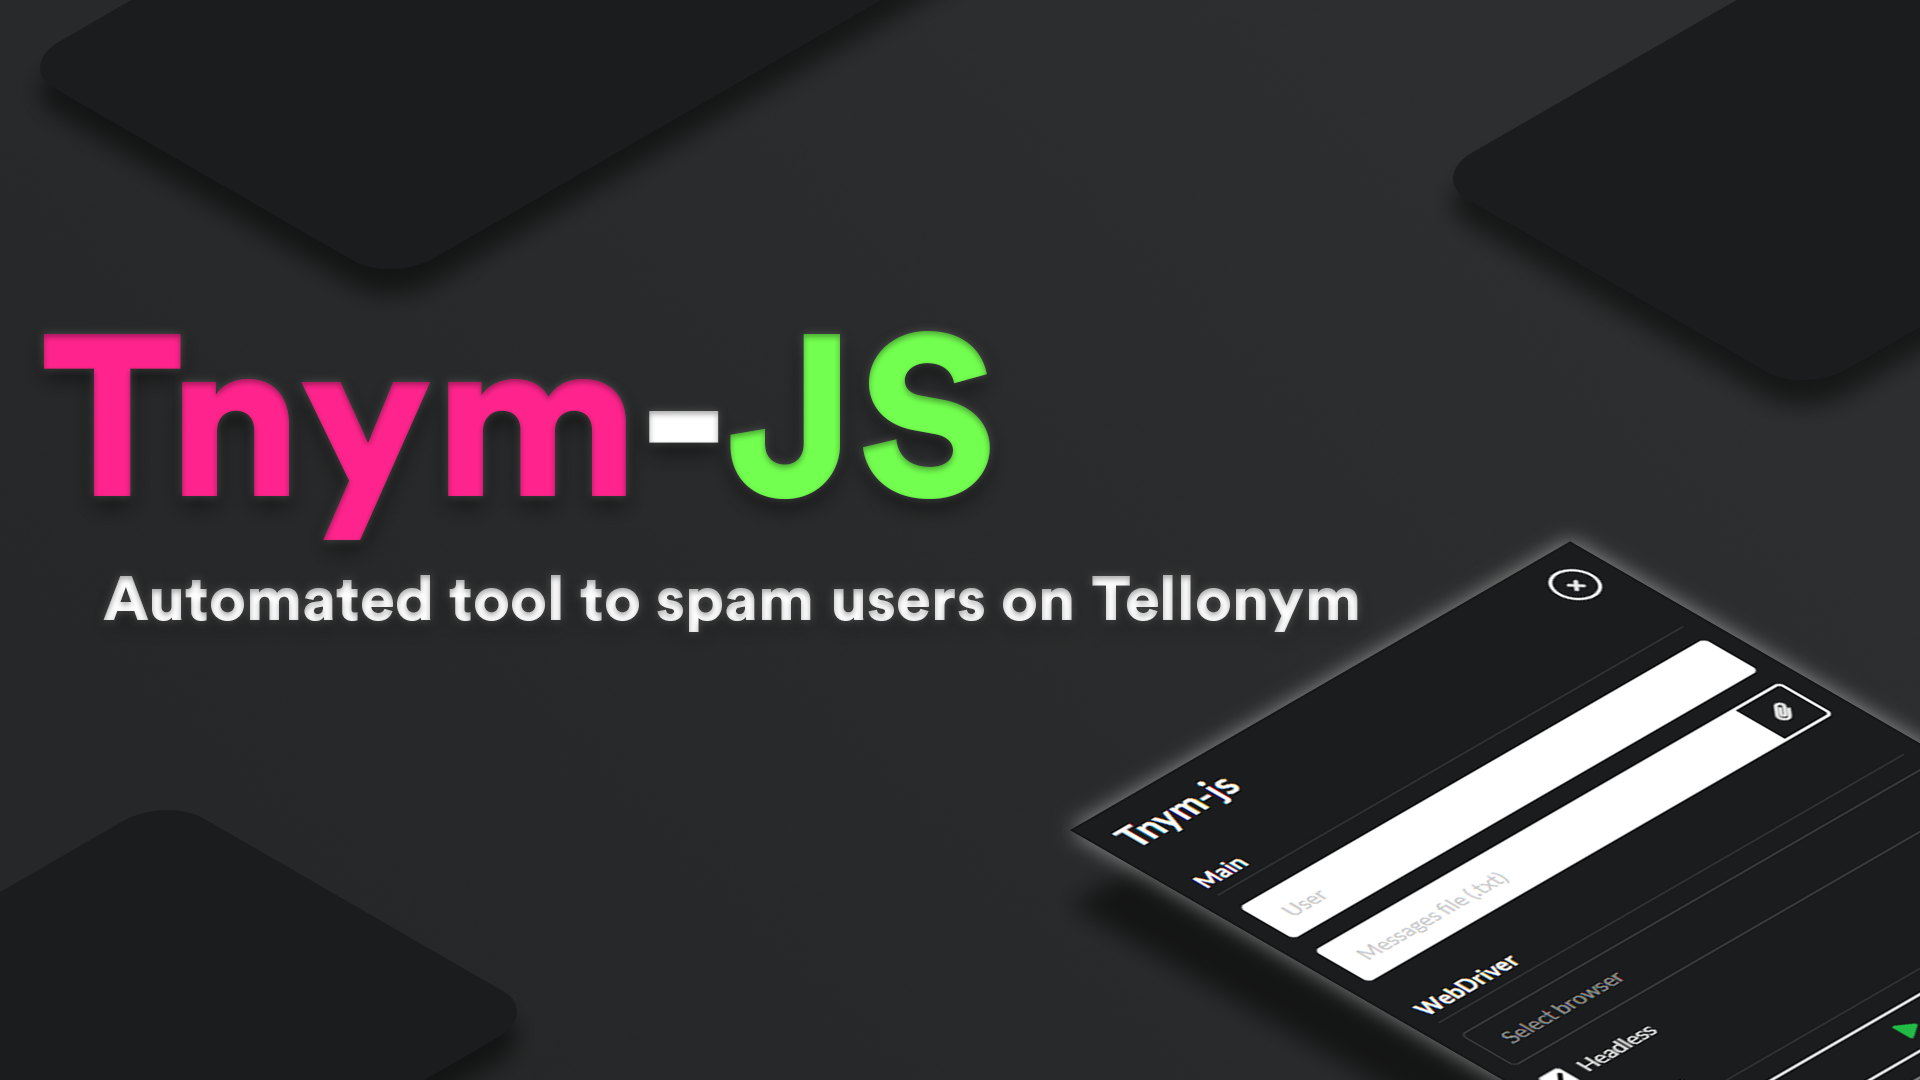
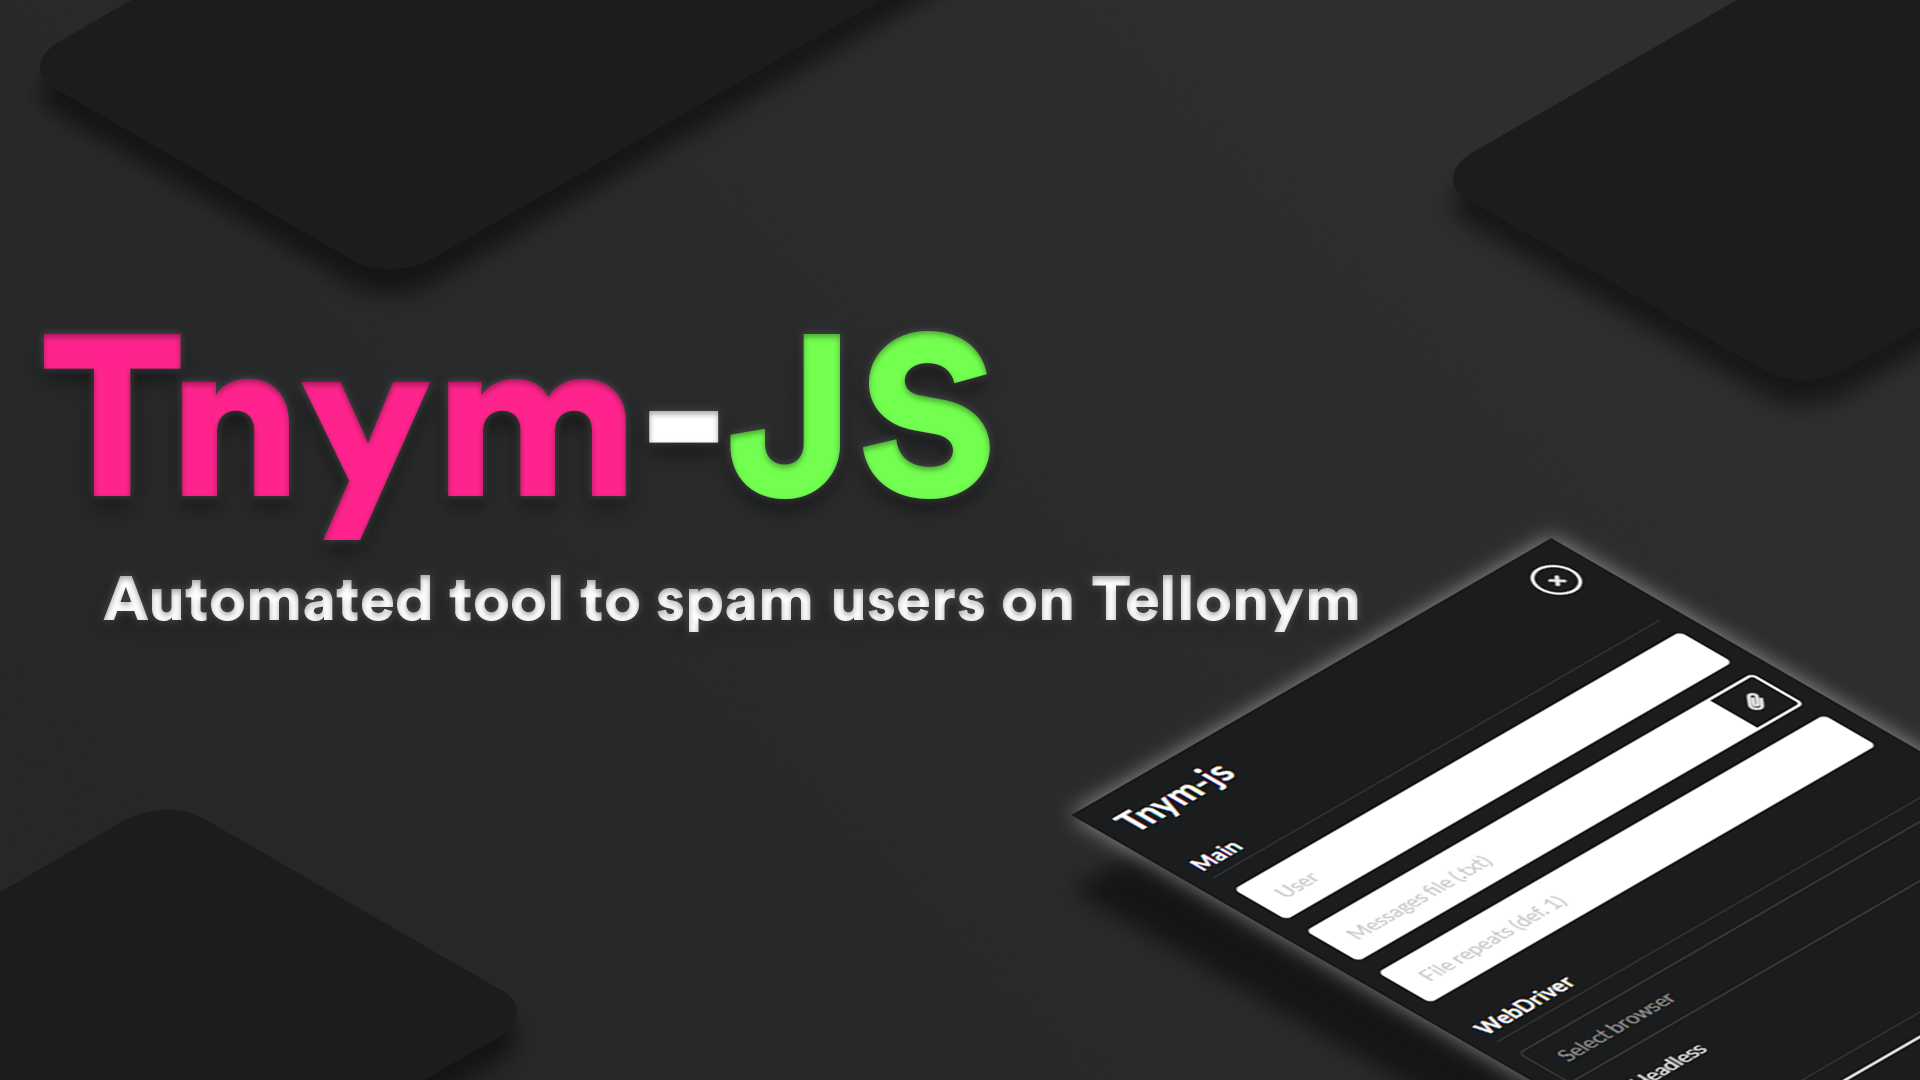
2.1.0

Changed region(s): [[0.5625, 0.4889, 1.0, 1.0], [0.9375, 0.9167, 1.0, 1.0]]

diff --git a/src/web/renderer.js b/src/web/renderer.js
@@ -1,6 +1,6 @@
 /* eslint-disable no-await-in-loop */
-/* eslint-disable no-undef */
-const { dialog } = require("electron").remote;
+/* eslint-env browser, jquery */
+const { dialog } = require("@electron/remote");
 const { readFileSync } = require("fs");
 const Spammer = require("../structures/Spammer");
 const Constants = require("../util/Constants");
@@ -10,6 +10,7 @@ const loadingDimmer = document.getElementById("loading-dimmer");
 const closeButton = document.getElementById("close-button");
 const userInput = document.getElementById("user-input");
 const fileInput = document.getElementById("file-input");
+const repeatsInput = document.getElementById("repeats-input");
 const fileAttachButton = document.getElementById("fileattach-button");
 const browserDropdown = document.getElementById("browser-dropdown");
 const headlessCheckbox = document.getElementById("headless-checkbox");
@@ -22,14 +23,12 @@ require("../../semantic/dist/semantic.min.css");
 let started = false;
 let spammer;
 
-function validateArgs(user, file, browser) {
-	let valid = (user === "" || !file || browser === "") ? false : true;
-
-	$(userInput).parent().removeClass(user === "" ? "ui fluid input" : "ui fluid input error").addClass(user === "" ? "ui fluid input error" : "ui fluid input");
-	$(fileInput).parent().removeClass(!file ? "ui fluid action input" : "ui fluid action input error").addClass(!file ? "ui fluid action input error" : "ui fluid action input");
-	$(browserDropdown).removeClass(browser === "" ? "ui inverted fluid selection dropdown" : "ui fluid selection dropdown error").addClass(browser === "" ? "ui fluid selection dropdown error" : "ui inverted fluid selection dropdown");
-
-	return valid;
+function showMessageBox(title, type, message) {
+	dialog.showMessageBox(null, {
+		message: message,
+		type: type,
+		title: title
+	});
 }
 
 function loading(state, msg) {
@@ -64,6 +63,18 @@ $("input:file", ".ui.action.input").on("change", function (e) {
 	$("input:text", $(e.target).parent()).val(file ? file.name : "");
 });
 
+repeatsInput.oninput = function () {
+	let number = repeatsInput.value;
+	if (number) {
+		repeatsInput.value = Math.floor(number);
+		if (number < 1 || number > 100) {
+			repeatsInput.value = Math.min(Math.max(parseInt(number), 1), 100);
+		}
+	} else {
+		repeatsInput.value = "";
+	}
+};
+
 $(browserDropdown).dropdown({
 	clearable: false
 });
@@ -77,21 +88,19 @@ startButton.onclick = async () => {
 
 	let user = userInput.value;
 	let file = fileInput.files[0];
+	let repeats = repeatsInput.valueAsNumber || 1;
 	let browser = $(browserDropdown).dropdown("get value");
 	let headless = $(headlessCheckbox).checkbox("is checked");
 
-	let validate = validateArgs(user, file, browser);
+	let validate = (user === "" || !file || browser === "") ? false : true;
 	if (!validate) {
+		showMessageBox("Warning", "warning", "Couldn't start because not all boxes are filled");
 		return;
 	}
 
 	let driverExists = Util.checkWebDriverExistence(browser);
 	if (!driverExists) {
-		dialog.showMessageBox(null, {
-			message: `Couldn't find and run ${browser}'s WebDriver`,
-			type: "warning",
-			title: "WebDriver Warning"
-		});
+		showMessageBox("Warning", "warning", `Couldn't find and run ${browser}'s WebDriver`);
 		return;
 	}
 
@@ -114,34 +123,36 @@ startButton.onclick = async () => {
 	}
 	loading(false);
 
-	for (const message of messages) {
-		if (message.length < 4 || message.length > 15000) {
-			continue;
-		}
-
-		if (!started) break;
-
-		for (let tries = 0; tries < Constants.RETRIES; tries++) {
-			let result;
-			try {
-				result = await spammer.send(message);
-			} catch {
-				conclude();
-				return;
+	for (let i = 0; i < repeats; i++) {
+		for (const message of messages) {
+			if (message.length < 4 || message.length > 15000) {
+				continue;
 			}
 
 			if (!started) break;
 
-			if (result === true) {
-				break;
-			} else if (result === false) {
-				if (tries > Constants.RETRIES) {
+			for (let tries = 0; tries < Constants.RETRIES; tries++) {
+				let result;
+				try {
+					result = await spammer.send(message);
+				} catch {
 					conclude();
 					return;
 				}
-			}
 
-			await Util.delay(1000);
+				if (!started) break;
+
+				if (result === true) {
+					break;
+				} else if (result === false) {
+					if (tries > Constants.RETRIES) {
+						conclude();
+						return;
+					}
+				}
+
+				await Util.delay(1000);
+			}
 		}
 	}
 

diff --git a/src/web/index.html b/src/web/index.html
@@ -3,7 +3,7 @@
 	<head>
 		<meta charset="UTF-8">
 		<meta http-equiv="Content-Security-Policy" content="default-src 'self'; script-src 'self' 'unsafe-eval'; style-src * 'unsafe-inline'; font-src * data:">
-		
+
 		<style>
 			.ui.action.input input[type="file"] {
 				display: none;
@@ -12,7 +12,7 @@
 	</head>
 
 	<body style="background-color:#1B1C1D; user-select: none;">
-		<div class="ui inverted grid">
+		<div class="ui grid">
 			<div class="ui dimmer" id="loading-dimmer" style="-webkit-app-region: drag;">
 				<div class="ui inverted text loader">Template</div>
 			</div>
@@ -20,20 +20,20 @@
 			<div class="sixteen wide column">
 				<div class="ui inverted segment">
 					<form class="ui inverted equal width form" id="main-form">
-						<div class="ui inverted grid" style="-webkit-app-region: drag;">
+						<div class="ui grid" style="-webkit-app-region: drag;">
 							<div class="left floated five wide column" style="-webkit-app-region: drag;">
 								<h1 class="ui inverted large header">Tnym-js</h1>
 							</div>
 							<div class="right floated five wide column" style="-webkit-app-region: drag;">
-								<button class="mini circular ui inverted right floated icon button" id="close-button" style="-webkit-app-region: no-drag;">
+								<div class="mini circular ui inverted right floated icon button" id="close-button" style="-webkit-app-region: no-drag;">
 									<i class="close icon"></i>
-								</button>
+								</div>
 							</div>
 						</div>
 
 						<h4 class="ui inverted dividing header">Main</h4>
-						<div class="ui fluid input" style="user-select: auto;">
-							<input id="user-input" type="text" placeholder="User">
+						<div class="ui fluid input">
+							<input id="user-input" type="text" spellcheck="false" placeholder="User">
 						</div>
 						<p></p>
 						<div class="ui fluid action input">
@@ -43,9 +43,13 @@
 								<i class="attach icon"></i>
 							</div>
 						</div>
+						<p></p>
+						<div class="ui fluid input">
+							<input id="repeats-input" type="number" min="1" max="100" placeholder="File repeats (def. 1)">
+						</div>
 
 						<h4 class="ui inverted dividing header">WebDriver</h4>
-						<div class="ui inverted fluid selection dropdown" id="browser-dropdown">
+						<div class="ui fluid inverted selection dropdown" id="browser-dropdown">
 							<input type="hidden" name="choices">
 							<div class="default text">Select browser</div>
 							<i class="dropdown icon"></i>
@@ -62,17 +66,10 @@
 						</div>
 
 						<h4 class="ui inverted dividing header">Controls</h4>
-						<div class="fluid ui inverted vertical animated black button" id="start-button">
+						<div class="ui fluid inverted vertical animated black button" id="start-button">
 							<div class="hidden content">Start</div>
 							<div class="visible content">
 								<i class="play icon color green" id="start-icon"></i>
-							</div>
-						</div>
-						<p></p>
-						<div class="fluid ui disabled inverted vertical animated black button" id="console-button">
-							<div class="hidden content">Console</div>
-							<div class="visible content">
-								<i class="terminal icon color gray" id="console-icon"></i>
 							</div>
 						</div>
 					</form>

diff --git a/src/index.js b/src/index.js
@@ -1,9 +1,10 @@
 const { app, BrowserWindow } = require("electron");
+require("@electron/remote/main").initialize();
 
 function createWindow() {
 	const win = new BrowserWindow({
 		width: 400,
-		height: 515,
+		height: 510,
 		center: true,
 		resizable: false,
 		maximizable: false,

diff --git a/README.md b/README.md
@@ -19,7 +19,7 @@ The only requirement to use the tool is to have [Chrome](https://chromedriver.ch
 
 If you would like to build the project by yourself, there are scripts out of the box.
 
-**Build Distribution:**
+**Build for Distribution:**
 ```shell
 $ npm run build
 ```
